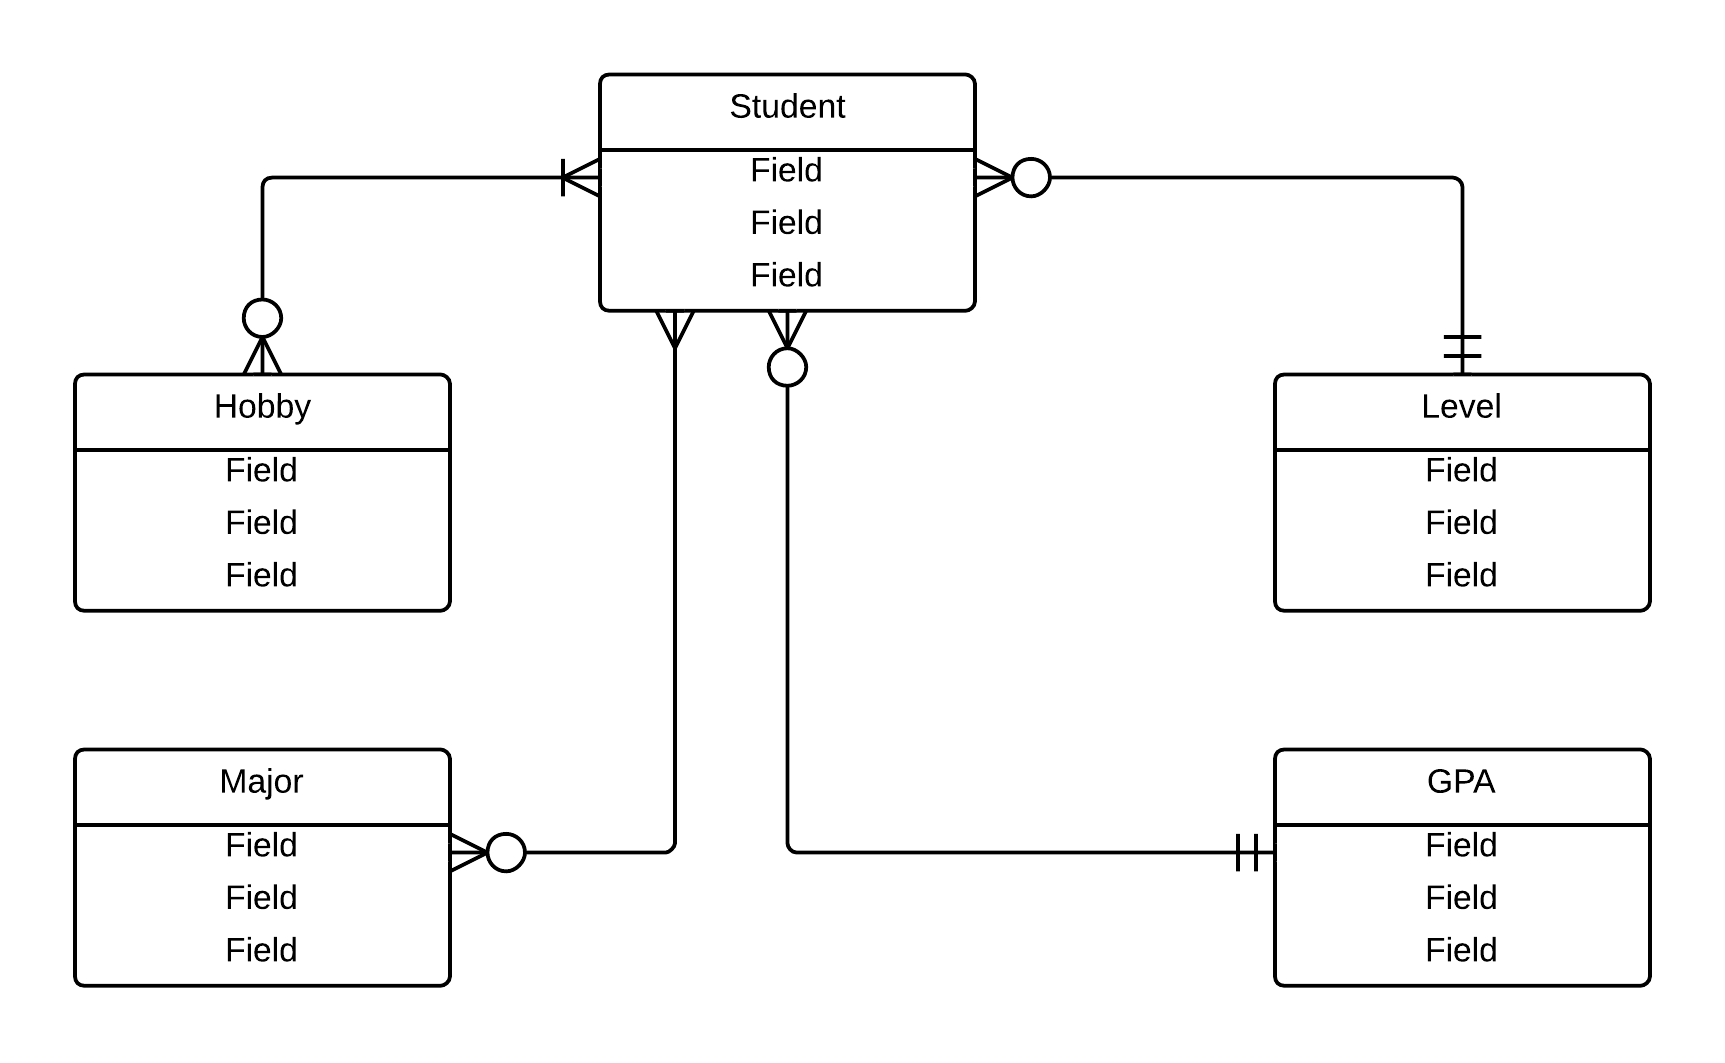
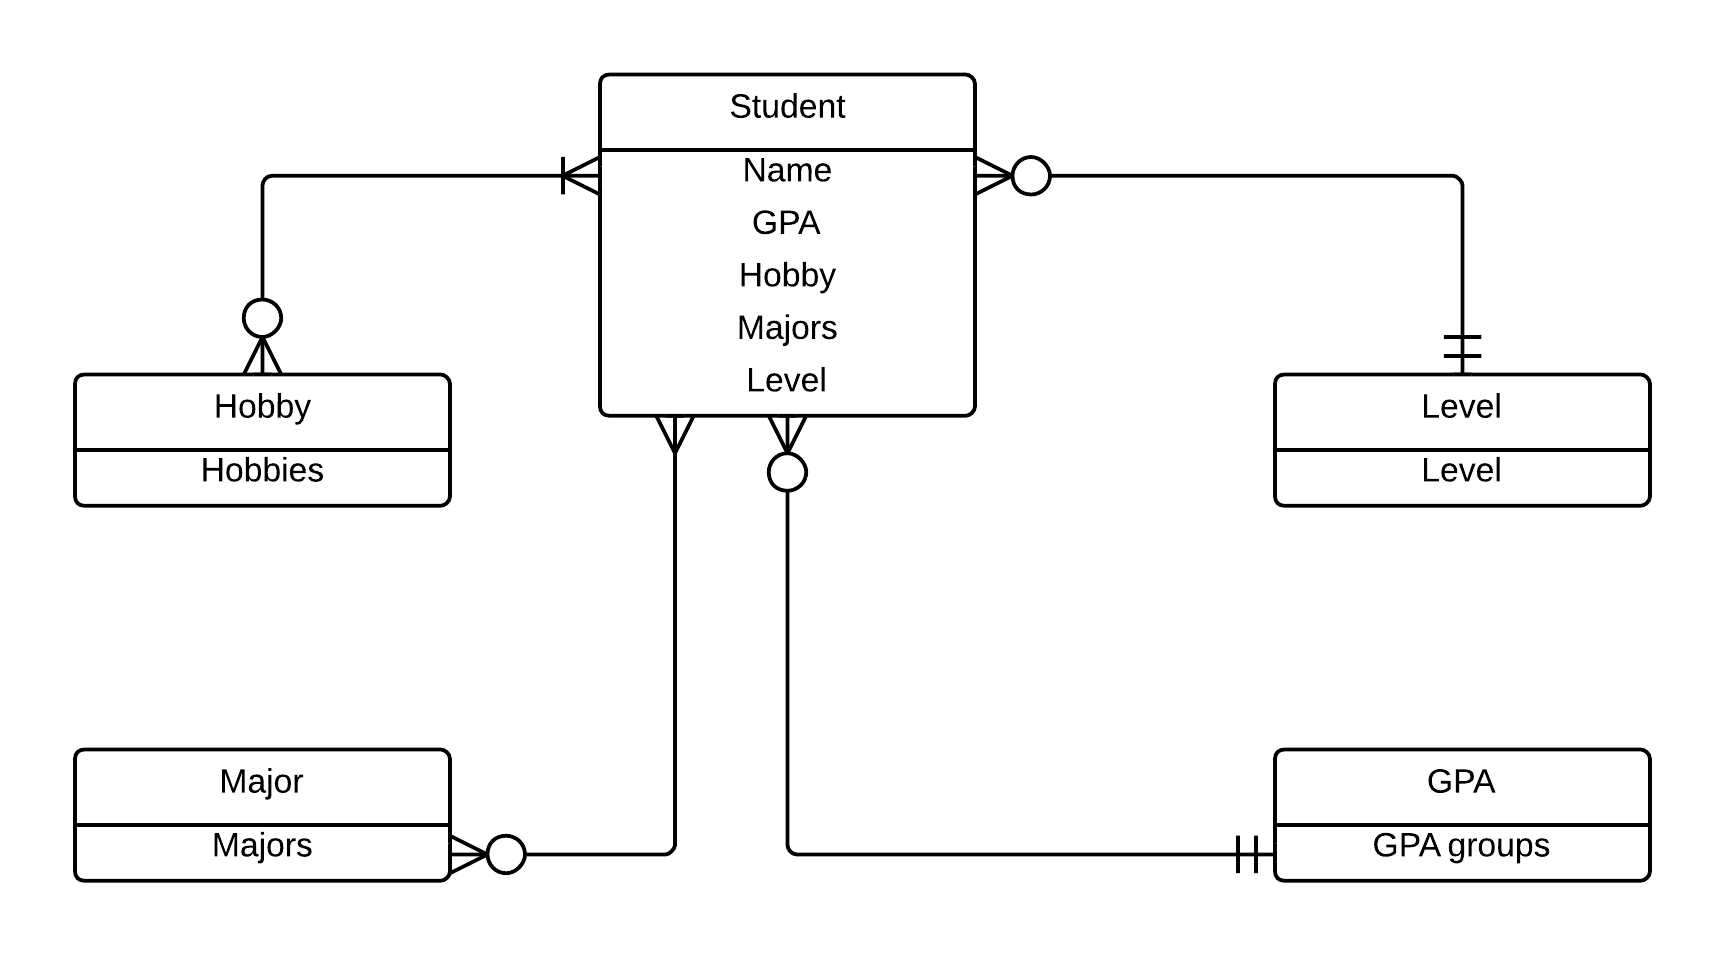
Finished

diff --git a/README.md b/README.md
@@ -178,6 +178,13 @@ have been rewritten, the rest of the system remains unchanged.*
 
 [<img src="https://raw.github.com/ics-software-engineering/play-example-form/master/doc/play-example-form-screencast.png" width="400">](http://www.youtube.com/watch?v=247H9NVpMME)
 
+Assumptions
+-------------------
+1- many students can have none to may hobbies and in commmon.
+Many students can have 0-many majors
+Each student can have only one GPA
+Each student can only have one Level.
+
     
 Acknowledgements
 ----------------
